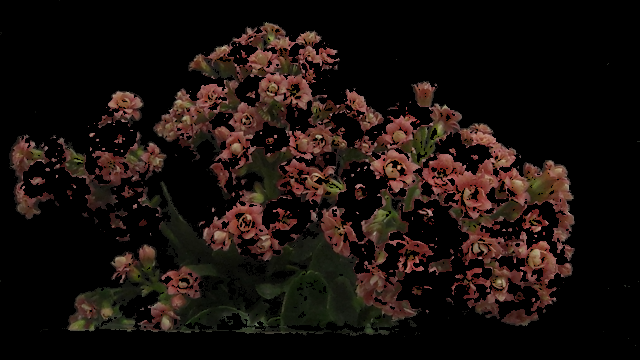
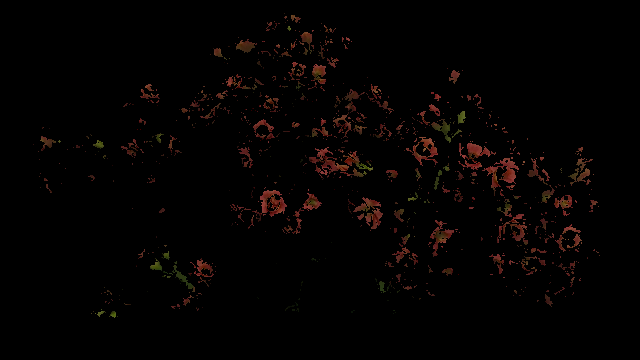
old

Changed region(s): [[0.0, 0.0306, 0.9375, 0.9472], [0.7188, 0.2444, 0.75, 0.275]]

diff --git a/app/PlantModel.py b/app/PlantModel.py
@@ -95,10 +95,14 @@ class PlantModel:
         #self.leaf_color_minimum = np.array(map(int,leaf_min_str.split(',')))
         #self.flower_color_maximum = list(map(float,flower_max_str.split(',')))
         #self.flower_color_minimum = list(map(float,flower_min_str.split(',')))
-        self.leaf_color_maximum = (0,40,0)
+        '''self.leaf_color_maximum = (0,40,0)
         self.leaf_color_minimum = (50,200,255)
         self.flower_color_maximum = (70,40,0)
-        self.flower_color_minimum = (255,255,255)
+        self.flower_color_minimum = (255,255,255)'''
+        self.leaf_color_maximum = (0,150,0)
+        self.leaf_color_minimum = (90,255,255)
+        self.flower_color_maximum = (90,30,0)
+        self.flower_color_minimum = (175,150,255)
 
     def ID_Leaves(self): #This function reads the image in view_1_photos and Identify the plants leaves 
         img = cv.imread("app\data\\view_photos\Picture.png")
